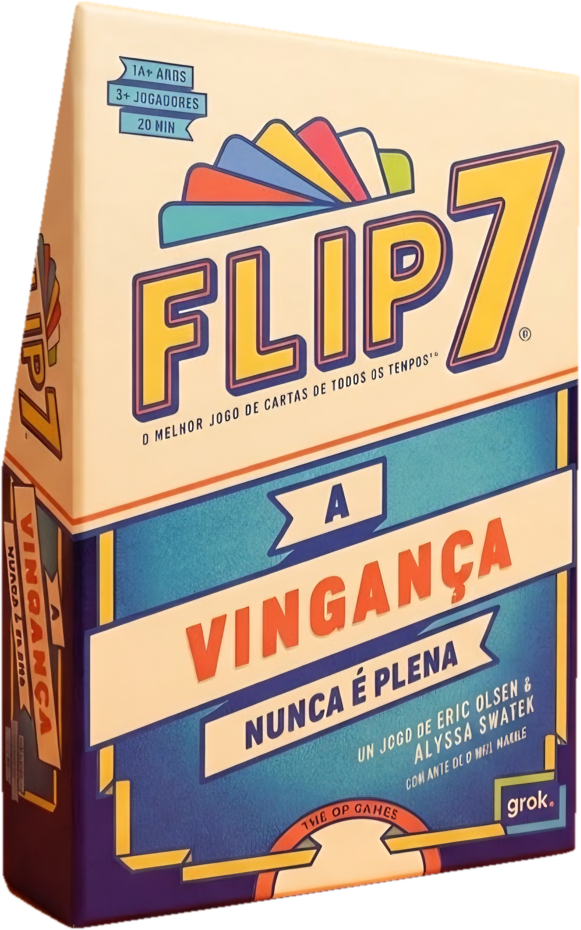
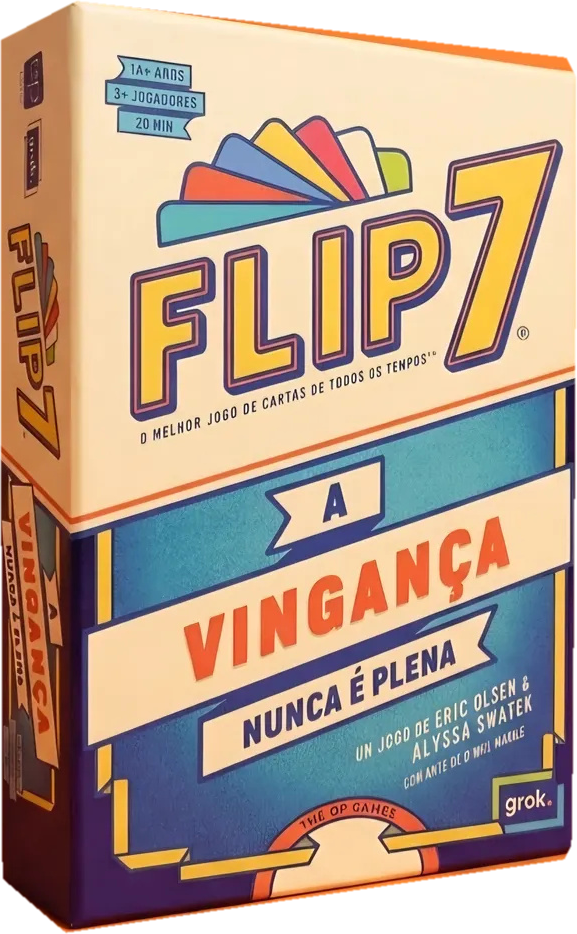
Flip 7 A Vingança: recorte completo (sem cortar o canto de cima)
Claude-Session: https://claude.ai/code/session_016Eit55JTpd7pd8t74j7ysC

Changed region(s): [[0.0, 0.0, 0.9983, 1.0], [0.2496, 0.0, 0.9983, 0.0935], [0.9671, 0.2495, 0.9983, 0.343]]

diff --git a/CLAUDE.md b/CLAUDE.md
@@ -1175,6 +1175,11 @@ e sem argumentos (gera com e sem legenda). Os vídeos ficam em `out/`, que **nã
   Eu Sou uma Banana, Santorini, Say my Name, Splendor Duel, Spyfall, Sushi Go!, Taco Gato Cabra Queijo Pizza, Take Time, Tapalavras, Telma,
   The Mind, Uga Buga, Wandering Towers. Ele TIROU: Ref!, Last Message (→ Break the Cube), Next Station (→ Wandering Towers), Perfil Express e Splito ("muito confuso") (→ Eu Sou uma Banana), Tesouro do Dragão, Patchwork, Azul Duel, Cartógrafos, BraveRats e 1, 2, 3, Lucha! (→ Taco Gato Cabra Queijo Pizza), Spot it! Hip (→ Dobble Disney).
   Eu deixei de fora: Throw Throw Burrito e Happy Salmon (barulho/coisa voando no café), jogos de bebida e +18, jogos longos.
+- **FLIP 7: A VINGANÇA recortado de novo (16/nov, ele: "a imagem dele está cortada em tudo"):** o canto de cima à
+  esquerda (tampa creme sob a luz laranja) sumia no limiar de cor. Novo recorte da foto do site (`site-fotos/out/fotos/`):
+  laranja por matiz/saturação + polígono dos 6 cantos medidos + casco convexo, erosão 7 px. Substituiu
+  `gravados-reels/assets/top10/flip_7_a_vinganca.png`, `top10/flip_7_a_vingan_a.png` e `hobby-reels/assets/acervo/flip_7_a_vingan_a.png`
+  (agora os dois servem). O Flip 7 normal da Grok (`lista/flip_7.png`) está ok.
 - **1º PEDIDO DE EVENTO (16/nov): Rodrigo, confraternização de fim de ano da empresa dele, ~30 pessoas.** Preço do Erik:
   **R$ 1.200 = até 30 pessoas, 4 h de evento, 2 monitores** (deslocamento no ABC e SP capital incluso — eu pus isso no PDF);
   **hora extra R$ 250**; folga de 5 pessoas (até 35 pelo mesmo valor); mais de 35 = orçamento. Desconto de lançamento sugerido (R$ 990 em troca de fotos e depoimento)
